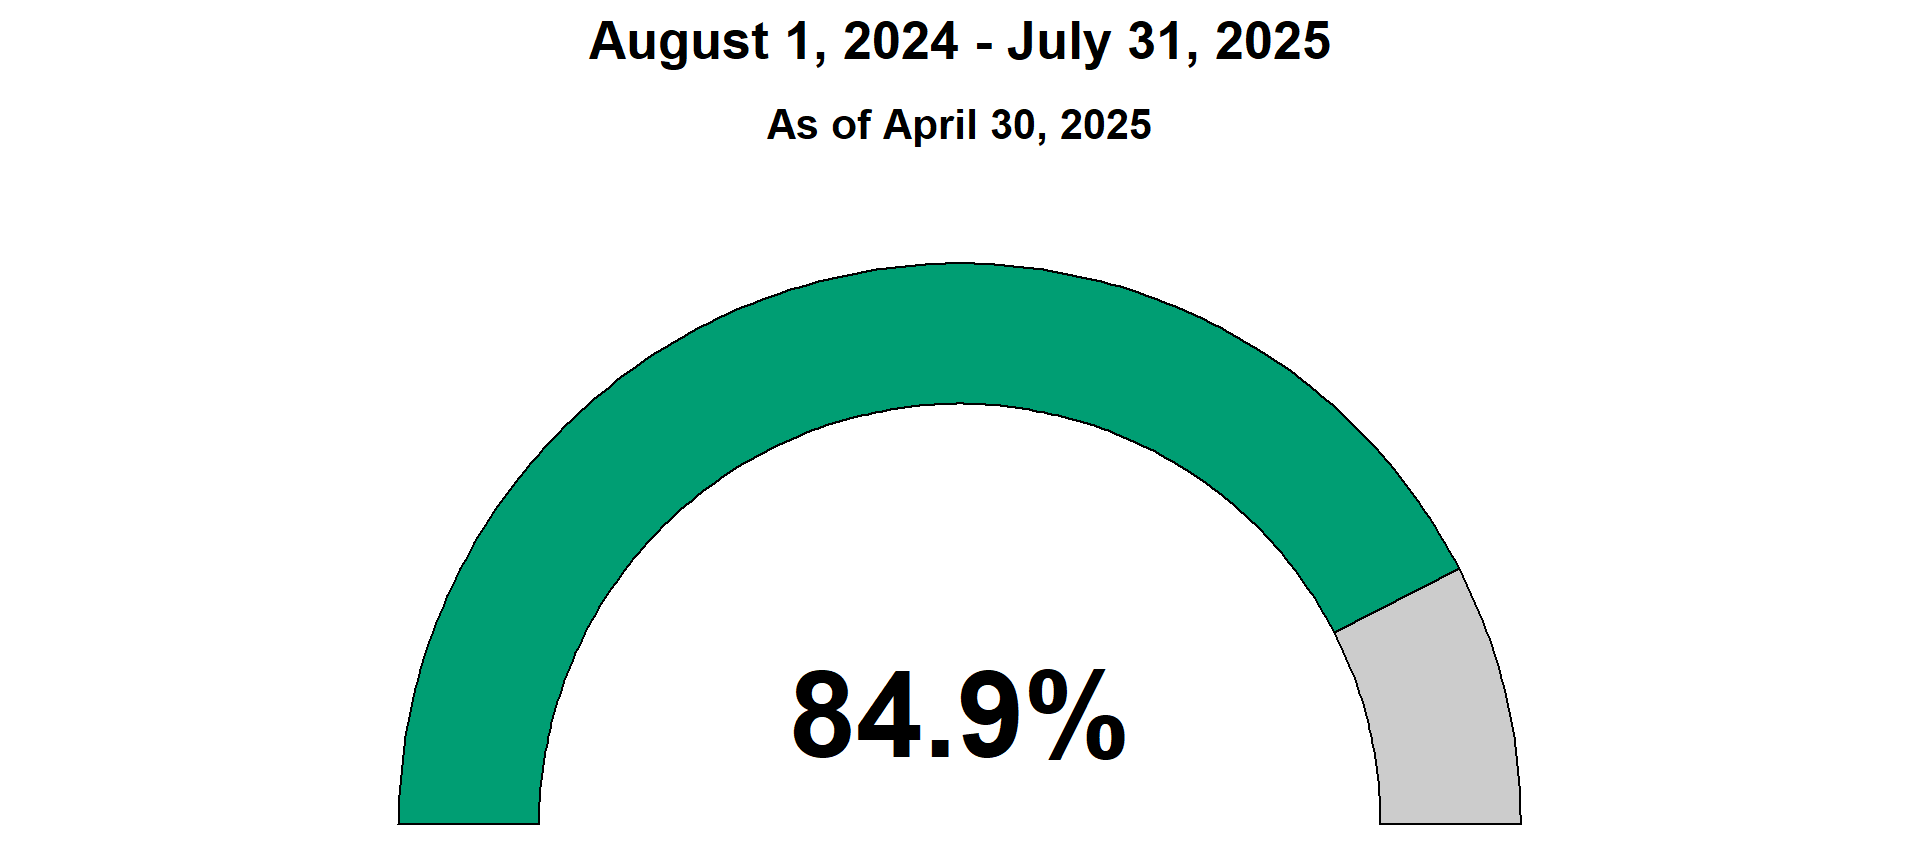
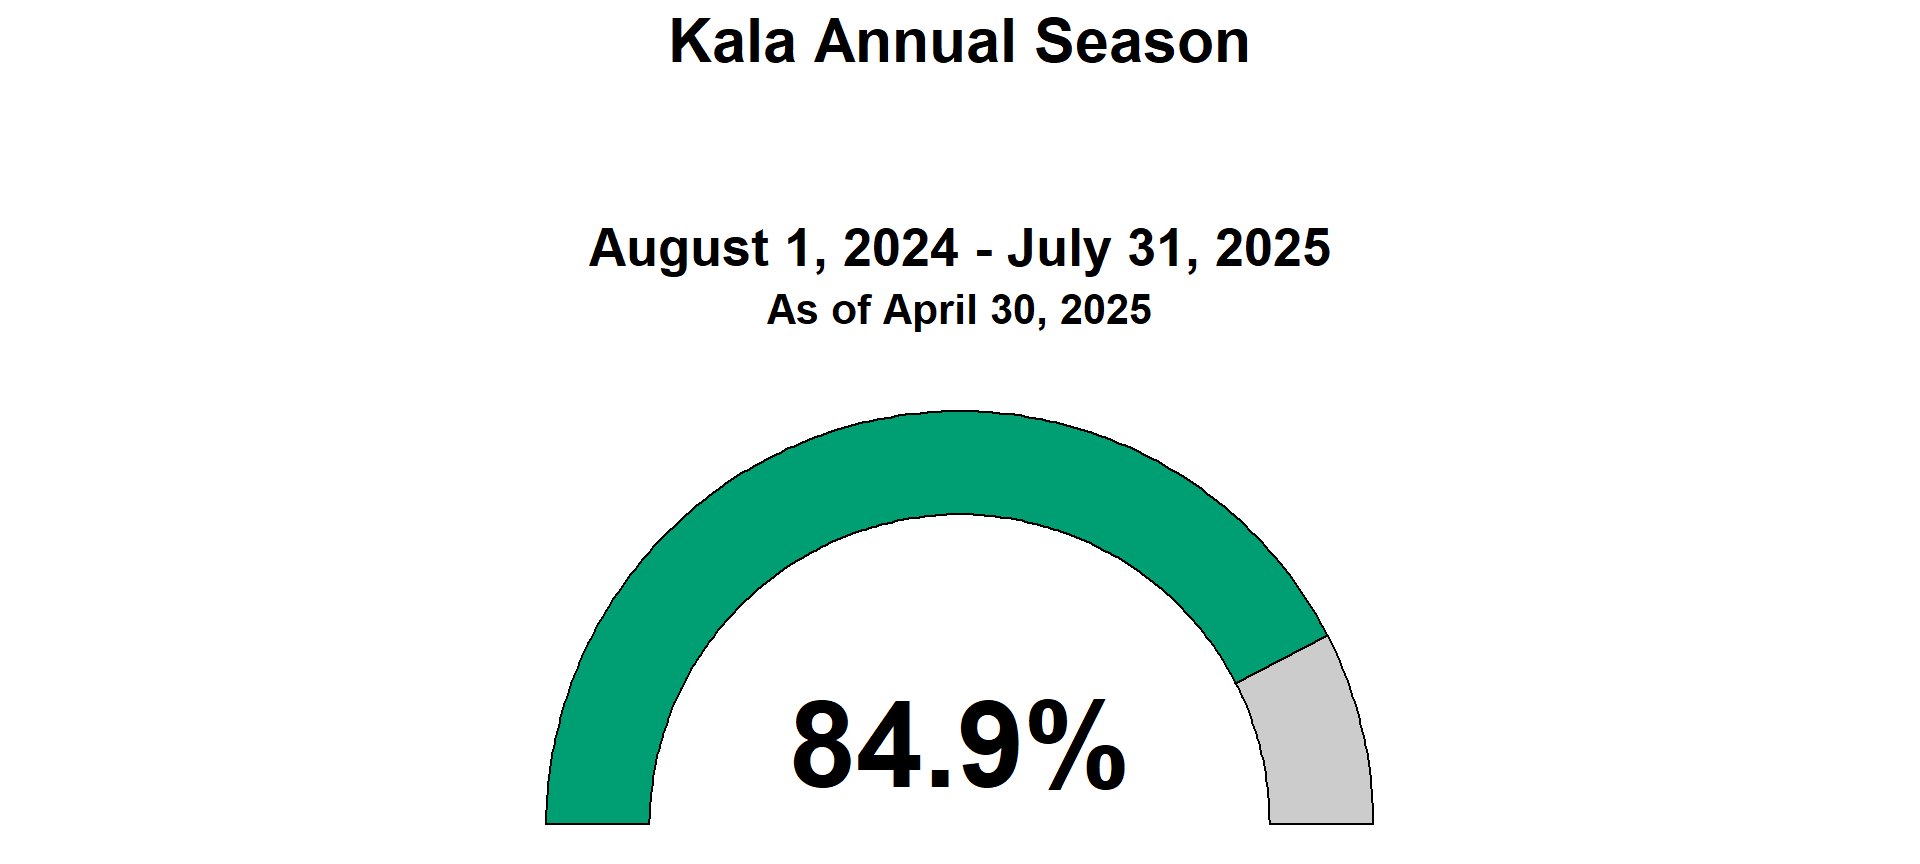
Fix missing Kala plot label.

diff --git a/kala_uhu_dashboard.html b/kala_uhu_dashboard.html
@@ -651,7 +651,7 @@ window.document.addEventListener("DOMContentLoaded", function (event) {
     <div class="nav-footer-left">
       <ul class="footer-items list-unstyled">
     <li class="nav-item">
- Uploaded on May 23, 2025
+ Uploaded on May 27, 2025
   </li>  
 </ul>
     </div>   
